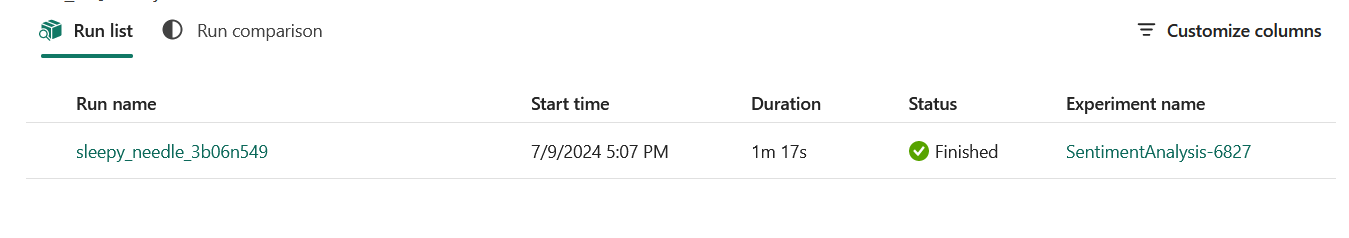
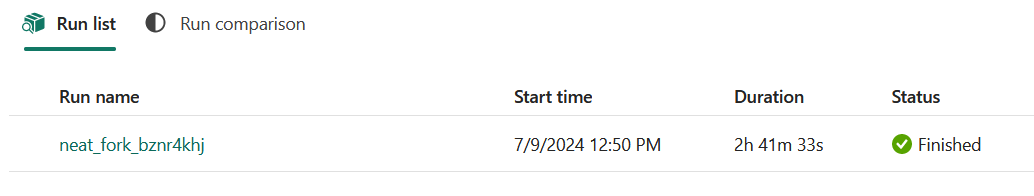
fixing image and updating article

diff --git a/_posts/Fabric/2024-07-08-SentimentAnalysisInFabric.md b/_posts/Fabric/2024-07-08-SentimentAnalysisInFabric.md
@@ -37,7 +37,7 @@ Install requirements
 %pip install -U -q mlflow
 ```
 
-Download the IMDB dataset and create small training and testing datasets.  Note the range(####) sections.  Those can be increased (better accuracy) or decreased (faster run) as desired.
+Download the IMDB dataset and create small training and testing datasets.  Note the range(####) sections.  Those can be increased (better accuracy) or decreased (faster run) as desired.  The 3000/300 split in the cell below takes around 2.5 hours to run in Fabric.
 
 ```python
 from datasets import load_dataset
